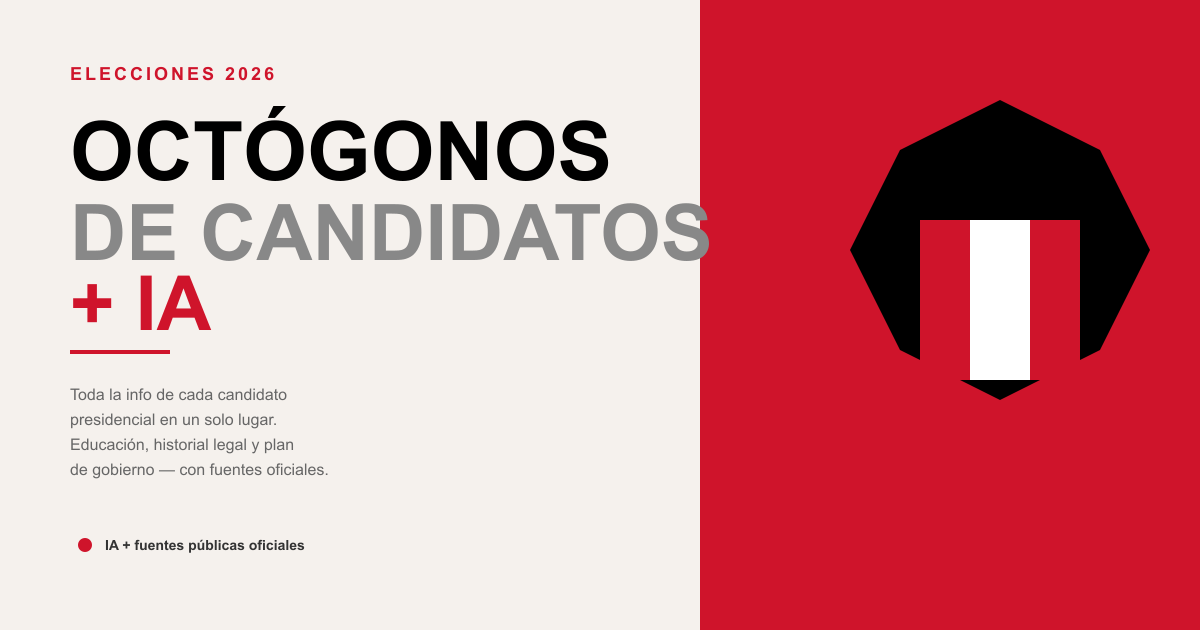
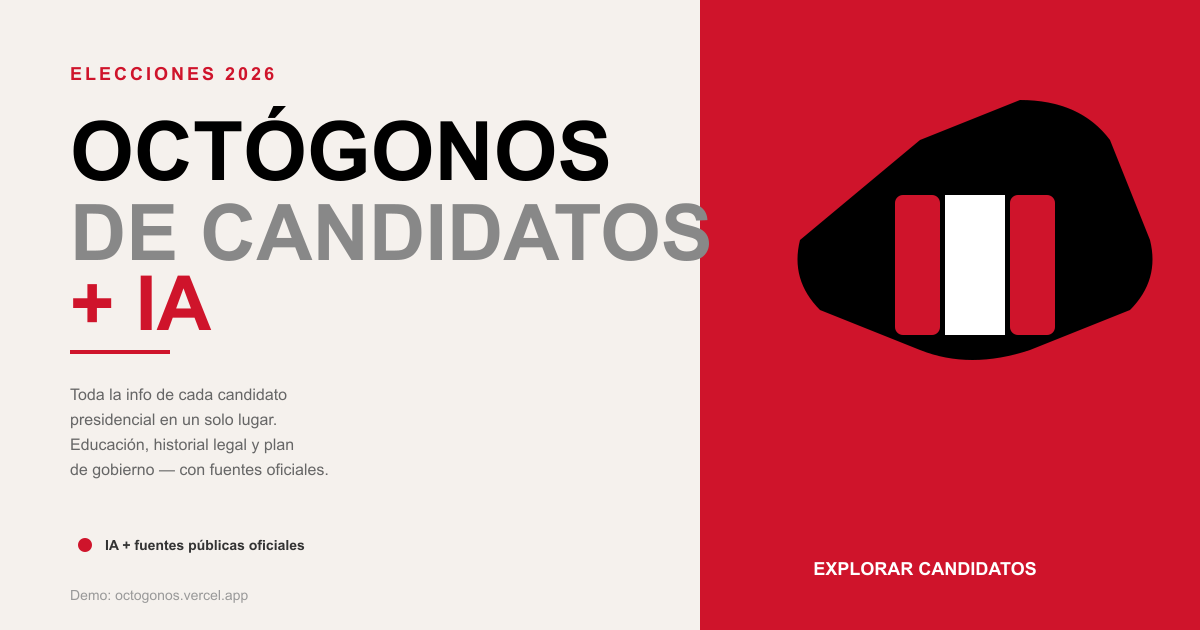
Update og:image with professional design
- Two-column layout with cream left section and red right section
- Left: "ELECCIONES 2026", main title, description, badge
- Right: Black octagon with Peru flag (rounded corners)
- Red "EXPLORAR CANDIDATOS" button at bottom
- Demo text: "octogonos.vercel.app"
- Dimensions: 1200x630, 63.5KB

diff --git a/scripts/generate-og-image.js b/scripts/generate-og-image.js
@@ -3,31 +3,83 @@
 const fs = require('fs');
 const path = require('path');
 
-// Create SVG with Peru colors (red and white)
-// Peru national colors: red (#CF142B) and white
+// Create SVG with Peru design - octagon with flag and text layout
 const width = 1200;
 const height = 630;
 
 const svg = `<?xml version="1.0" encoding="UTF-8"?>
 <svg width="${width}" height="${height}" xmlns="http://www.w3.org/2000/svg">
-  <!-- Red background (Peru color) -->
+  <!-- Red background (Peru color #CF142B) -->
   <rect width="${width}" height="${height}" fill="#CF142B"/>
 
-  <!-- White decorative left stripe -->
-  <rect x="0" y="0" width="120" height="${height}" fill="white" opacity="0.15"/>
+  <!-- Cream/beige left section background -->
+  <rect x="0" y="0" width="700" height="${height}" fill="#F5F1ED"/>
 
-  <!-- Main title -->
-  <text x="${width / 2}" y="240" font-family="Arial, sans-serif" font-size="64" font-weight="bold" fill="white" text-anchor="middle" dominant-baseline="middle">
-    Octógonos de candidatos
+  <!-- Left section content -->
+  <!-- "ELECCIONES 2026" label -->
+  <text x="70" y="80" font-family="Arial, sans-serif" font-size="18" font-weight="bold" fill="#CF142B" letter-spacing="3">
+    ELECCIONES 2026
   </text>
 
-  <!-- Subtitle -->
-  <text x="${width / 2}" y="340" font-family="Arial, sans-serif" font-size="56" font-weight="normal" fill="white" text-anchor="middle" dominant-baseline="middle">
-    Educación, historial legal y plan de gobierno
+  <!-- Main title "OCTÓGONOS" -->
+  <text x="70" y="180" font-family="Arial, sans-serif" font-size="82" font-weight="900" fill="#000000">
+    OCTÓGONOS
   </text>
 
-  <!-- Small accent line -->
-  <rect x="${width / 2 - 100}" y="380" width="200" height="3" fill="white" opacity="0.6"/>
+  <!-- Subtitle "DE CANDIDATOS" -->
+  <text x="70" y="260" font-family="Arial, sans-serif" font-size="78" font-weight="900" fill="#888888">
+    DE CANDIDATOS
+  </text>
+
+  <!-- "+ IA" -->
+  <text x="70" y="330" font-family="Arial, sans-serif" font-size="76" font-weight="bold" fill="#CF142B">
+    + IA
+  </text>
+
+  <!-- Red horizontal line -->
+  <rect x="70" y="350" width="100" height="4" fill="#CF142B"/>
+
+  <!-- Description text -->
+  <text x="70" y="400" font-family="Arial, sans-serif" font-size="16" font-weight="normal" fill="#666666">
+    Toda la info de cada candidato
+  </text>
+  <text x="70" y="425" font-family="Arial, sans-serif" font-size="16" font-weight="normal" fill="#666666">
+    presidencial en un solo lugar.
+  </text>
+  <text x="70" y="450" font-family="Arial, sans-serif" font-size="16" font-weight="normal" fill="#666666">
+    Educación, historial legal y plan
+  </text>
+  <text x="70" y="475" font-family="Arial, sans-serif" font-size="16" font-weight="normal" fill="#666666">
+    de gobierno — con fuentes oficiales.
+  </text>
+
+  <!-- Badge: "IA + fuentes públicas oficiales" -->
+  <circle cx="85" cy="545" r="7" fill="#CF142B"/>
+  <text x="105" y="550" font-family="Arial, sans-serif" font-size="14" font-weight="bold" fill="#333333">
+    IA + fuentes públicas oficiales
+  </text>
+
+  <!-- Right section - Octagon with Peru flag (rounded corners) -->
+  <!-- Black octagon background with rounded corners -->
+  <g id="octagon">
+    <path d="M 920,140 L 1020,100 Q 1080,100 1110,140 L 1150,240 Q 1160,280 1130,310 L 1030,350 Q 970,370 920,350 L 820,310 Q 790,280 800,240 Z" fill="#000000"/>
+  </g>
+
+  <!-- Peru flag inside octagon (vertical stripes: red-white-red) -->
+  <rect x="895" y="195" width="45" height="140" fill="#CF142B" rx="8"/>
+  <rect x="945" y="195" width="60" height="140" fill="white"/>
+  <rect x="1010" y="195" width="45" height="140" fill="#CF142B" rx="8"/>
+
+  <!-- Red button "EXPLORAR CANDIDATOS" at bottom right -->
+  <rect x="700" y="530" width="450" height="65" fill="#CF142B" rx="12"/>
+  <text x="925" y="575" font-family="Arial, sans-serif" font-size="18" font-weight="bold" fill="white" text-anchor="middle">
+    EXPLORAR CANDIDATOS
+  </text>
+
+  <!-- Demo text at bottom left -->
+  <text x="70" y="600" font-family="Arial, sans-serif" font-size="14" font-weight="normal" fill="#999999">
+    Demo: octogonos.vercel.app
+  </text>
 </svg>`;
 
 // Convert SVG to PNG using a simple approach
